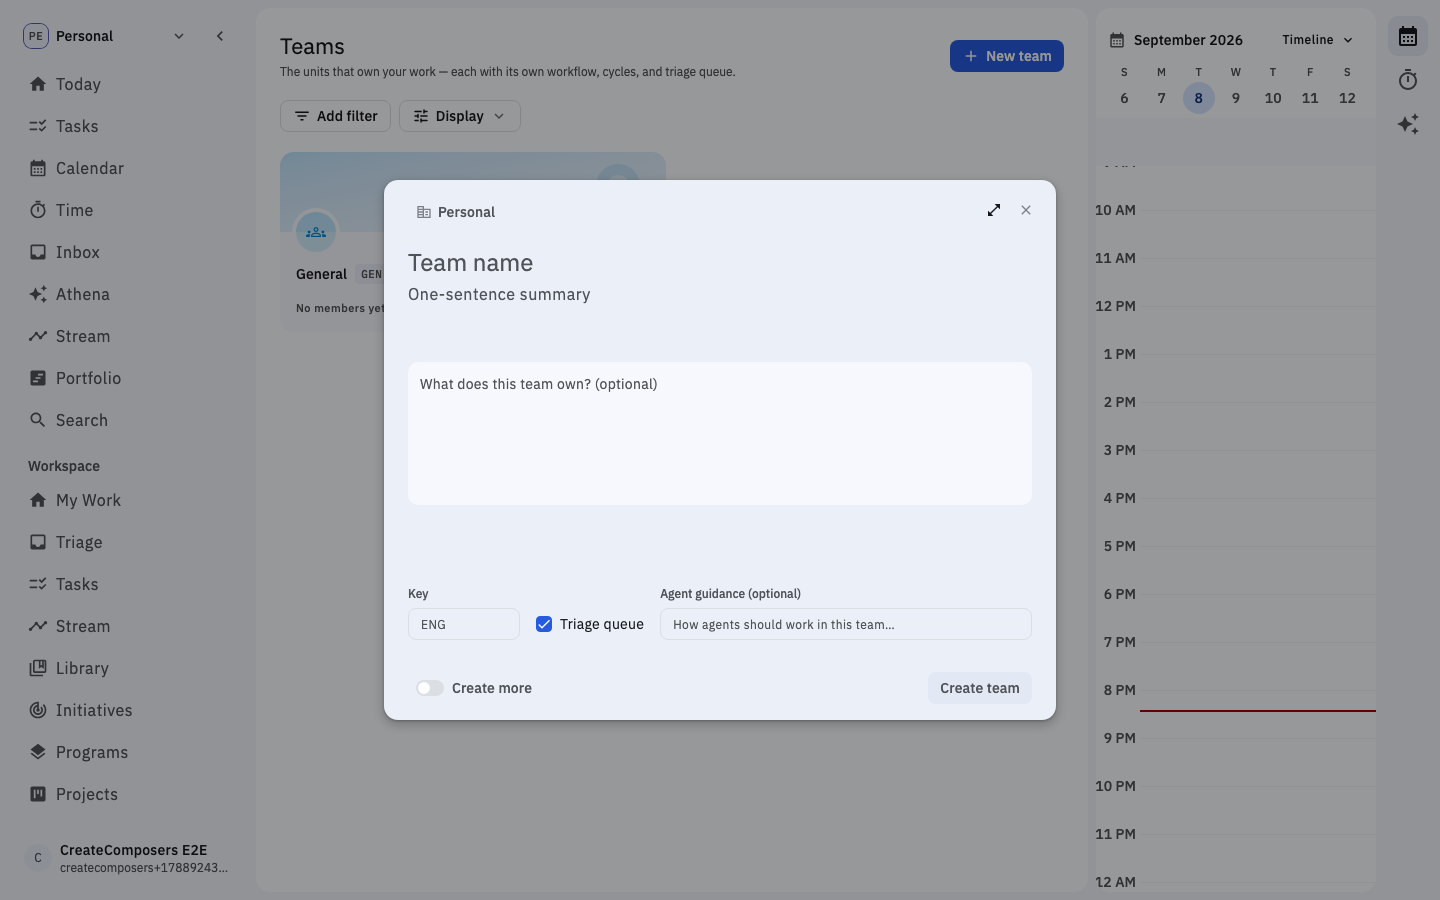
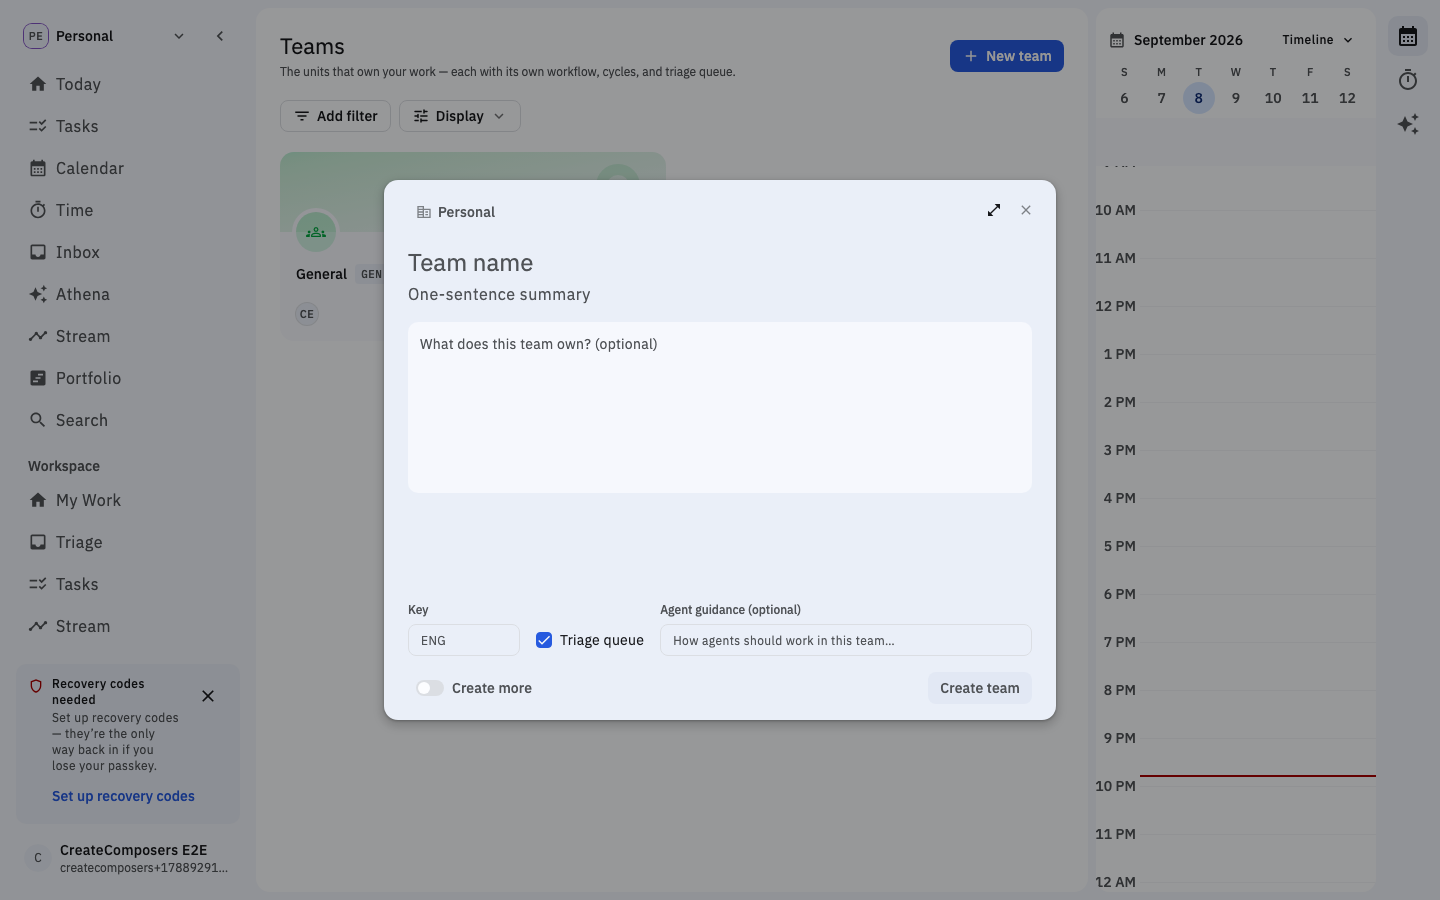
fix(ui): Remove excess composer title spacing
Create composers stacked four independent 12px spacing rules between the
title block and editor. The result was a 48px empty band that made the
form look disconnected, especially in the full-screen phone layout.

The shared dialog body now has a typed responsive-inline inset for
adjacent regions. It preserves safe-area-aware side padding without
adding another block gap. The composer also drops its legacy title and
editor margins, which leaves the responsive header as the single owner
of the title-to-editor spacing.

Browser coverage now rejects a rendered gap above 16px across every
product composer.

Docs-impact: Updated - recorded the spacing fix and refreshed the design audit

diff --git a/packages/ui/src/primitives/dialog.tsx b/packages/ui/src/primitives/dialog.tsx
@@ -69,6 +69,9 @@ import { useOverlayFocusRestore } from './use-overlay-focus-restore';
 /** Insets for dialog regions, including compact phone spacing that expands with the panel. */
 export type DialogInset = OverlayInset | 'responsive';
 
+/** Insets for dialog bodies, including inline-only spacing beside an adjacent header. */
+export type DialogBodyInset = DialogInset | 'responsive-inline';
+
 /**
  * Root controller for an open/closed dialog (Radix passthrough).
  *
@@ -320,7 +323,7 @@ export function DialogBody({
   scroll = 'auto',
   ...props
 }: React.ComponentProps<'div'> & {
-  readonly inset?: DialogInset | undefined;
+  readonly inset?: DialogBodyInset | undefined;
   readonly scroll?: 'auto' | 'visible' | undefined;
 }): React.JSX.Element {
   return (
@@ -363,12 +366,13 @@ export function DialogFooter({
 
 type DialogRegion = 'header' | 'body' | 'footer';
 
-function overlayInsetClass(inset: DialogInset, region: DialogRegion): string {
+function overlayInsetClass(inset: DialogBodyInset, region: DialogRegion): string {
   if (inset === 'none') return '';
   if (inset === 'compact') return 'px-4 py-3';
-  if (inset === 'responsive') {
+  if (inset === 'responsive' || inset === 'responsive-inline') {
     const horizontal =
       'pl-[max(1rem,env(safe-area-inset-left))] pr-[max(1rem,env(safe-area-inset-right))] sm:px-6';
+    if (inset === 'responsive-inline') return horizontal;
     if (region === 'header')
       return `${horizontal} pt-[max(0.75rem,env(safe-area-inset-top))] pb-3 sm:py-4`;
     if (region === 'footer')

diff --git a/apps/web/e2e/athena/create-composers-design.spec.ts b/apps/web/e2e/athena/create-composers-design.spec.ts
@@ -117,6 +117,17 @@ async function expectNoPageOverflow(page: Page): Promise<void> {
   expect(geometry.scrollWidth).toBeLessThanOrEqual(geometry.clientWidth);
 }
 
+async function expectSingleTitleToEditorGap(dialog: Locator): Promise<void> {
+  const editor = dialog.locator('[data-editor-surface]');
+  if ((await editor.count()) === 0) return;
+  const titleBlock = dialog.getByRole('textbox').first().locator('..');
+  const [titleBox, editorBox] = await Promise.all([titleBlock.boundingBox(), editor.boundingBox()]);
+  expect(titleBox).not.toBeNull();
+  expect(editorBox).not.toBeNull();
+  if (!titleBox || !editorBox) throw new Error('Composer title or editor has no layout box.');
+  expect(editorBox.y - (titleBox.y + titleBox.height)).toBeLessThanOrEqual(16);
+}
+
 async function expectMobileViewportComposer(dialog: Locator, page: Page): Promise<void> {
   await dialog.evaluate(async (node) => {
     await Promise.allSettled(
@@ -199,6 +210,7 @@ test('create composers fill phones and keep two explicit footer rows', async ({ 
     await page.setViewportSize({ width: 390, height: 844 });
     await setColorScheme(page, 'light');
     await expectMobileViewportComposer(dialog, page);
+    await expectSingleTitleToEditorGap(dialog);
     await expectTwoFooterRows(dialog, item);
     await expectNoPageOverflow(page);
     await capture(page, `${item.slug}-mobile-light`);

diff --git a/apps/web/tests/editor/composer-editor-parity.test.tsx b/apps/web/tests/editor/composer-editor-parity.test.tsx
@@ -101,6 +101,8 @@ describe('composer body editor parity', () => {
     const dialog = await screen.findByRole('dialog', { name: 'New initiative' });
     const title = screen.getByRole('textbox', { name: 'Initiative name' });
     const summary = screen.getByRole('textbox', { name: 'One-sentence summary' });
+    const editor = screen.getByRole('textbox', { name: 'Add a description' });
+    const dialogBody = editor.closest('[data-overlay-scroll-owner]');
     const create = screen.getByRole('button', { name: 'Create Initiative' });
     const actionRow = create.parentElement;
     const footer = actionRow?.parentElement;
@@ -117,6 +119,14 @@ describe('composer body editor parity', () => {
     expect(title).toHaveClass('text-headline-small');
     expect(title).not.toHaveClass('text-lg', 'font-medium', 'tracking-tight');
     expect(summary).toHaveClass('text-body-large');
+    expect(title.parentElement).not.toHaveClass('pb-3');
+    expect(editor.closest('[data-editor-surface]')).not.toHaveClass('mt-3');
+    expect(dialogBody).toHaveClass(
+      'pl-[max(1rem,env(safe-area-inset-left))]',
+      'pr-[max(1rem,env(safe-area-inset-right))]',
+      'sm:px-6',
+    );
+    expect(dialogBody).not.toHaveClass('py-3', 'sm:py-4');
     expect(actionRow).toHaveClass('w-full');
     expect(footer).toHaveClass(
       'pl-[max(1rem,env(safe-area-inset-left))]',

diff --git a/apps/web/src/components/composer/composer-shell.tsx b/apps/web/src/components/composer/composer-shell.tsx
@@ -236,7 +236,7 @@ export function ComposerShell({
         onSubmit={() => {
           if (canSubmit && !creating) onSubmit();
         }}
-        className="bg-surface-container-low mt-3 flex min-h-28 flex-1 flex-col overflow-y-auto overscroll-contain rounded-lg p-3 [&>div]:flex-1"
+        className="bg-surface-container-low flex min-h-28 flex-1 flex-col overflow-y-auto overscroll-contain rounded-lg p-3 [&>div]:flex-1"
       />
     );
 
@@ -377,7 +377,7 @@ export function ComposerShell({
               ) : null}
 
               {/* Header block: the title, and — when opted in — an inline subtitle, read as one document. */}
-              <div className="flex flex-col gap-1 pb-3">
+              <div className="flex flex-col gap-1">
                 <input
                   aria-label={titlePlaceholder}
                   placeholder={titlePlaceholder}
@@ -407,7 +407,7 @@ export function ComposerShell({
             </div>
           </DialogHeader>
 
-          <DialogBody inset="responsive" className="flex flex-col gap-4">
+          <DialogBody inset="responsive-inline" className="flex flex-col gap-4">
             {bodyEditor !== null ? (
               <>
                 {/*

diff --git a/packages/ui/tests/primitives/dialog.test.tsx b/packages/ui/tests/primitives/dialog.test.tsx
@@ -299,6 +299,26 @@ describe('Dialog family', () => {
     expect(footer).toHaveClass('pt-3', 'pb-[max(0.75rem,env(safe-area-inset-bottom))]');
   });
 
+  it('keeps adjacent responsive bodies inline with the panel without adding a second block gap', async () => {
+    render(
+      <Dialog defaultOpen>
+        <DialogContent>
+          <DialogTitle>Joined regions</DialogTitle>
+          <DialogBody inset="responsive-inline" data-testid="responsive-inline-body">
+            Body
+          </DialogBody>
+        </DialogContent>
+      </Dialog>,
+    );
+
+    expect(await screen.findByTestId('responsive-inline-body')).toHaveClass(
+      'pl-[max(1rem,env(safe-area-inset-left))]',
+      'pr-[max(1rem,env(safe-area-inset-right))]',
+      'sm:px-6',
+    );
+    expect(screen.getByTestId('responsive-inline-body')).not.toHaveClass('py-3', 'sm:py-4');
+  });
+
   it('reserves the second header control only when a responsive dialog becomes a panel', async () => {
     render(
       <Dialog defaultOpen>

diff --git a/packages/ui/src/primitives/index.ts b/packages/ui/src/primitives/index.ts
@@ -79,6 +79,7 @@ export {
   DialogContent,
   type DialogContentProps,
   DialogDescription,
+  type DialogBodyInset,
   DialogFooter,
   DialogHeader,
   type DialogInset,

diff --git a/docs/WORKLOG.md b/docs/WORKLOG.md
@@ -9401,6 +9401,135 @@ identity-providers}.ts(x)` + `packages/ui/src/icons/index.ts` (badge, Source opt
 
 ## Completed Tasks
 
+### [CREATE-COMPOSERS-003] Remove the stacked title-to-editor gap
+
+- **Completed**: 2026-09-08
+- **Started**: 2026-09-08
+- **Priority**: P1
+- **Summary**: Every create composer now uses one title-to-editor spacing step instead of stacking
+  four 12px margins and insets into a 48px gap.
+- **Approach**: Add the shared `responsive-inline` dialog inset for an adjacent scrolling body.
+  Keep safe-area-aware inline padding in `@docket/ui`, remove block padding from that body variant,
+  and remove the legacy title and editor margins. The responsive header now owns the only vertical
+  gap at this boundary.
+- **Validation**: The red shared-dialog test received the old `px-6 py-4` body inset. The red
+  composer test found the legacy `pb-3` title padding and `mt-3` editor margin. The focused green
+  suites passed 23 shared-dialog assertions and 22 composer/editor assertions. The full shared-UI
+  coverage suite passed 773 tests at 94.89% statement coverage. The full web coverage suite passed
+  3,850 tests at 95.98% statement coverage. The authenticated browser matrix passed 2 tests in 1.4
+  minutes across all five product composers. It enforced a title-to-editor gap of no more than 16px
+  and refreshed 30 screenshots at desktop, 390px, 320px, light, dark, fine-pointer, and touch
+  modes. UI and web typecheck and lint passed, and the production web build generated 91 pages and
+  its service worker.
+- **Learnings**: The visible 48px gap came from four independent 12px sources: title bottom
+  padding, responsive header bottom padding, responsive body top padding, and editor top margin.
+  Removing one margin would have left the same ownership bug in place. A shared inline-only body
+  inset preserves safe areas without adding a second vertical rhythm.
+- **Blockers**: None. Ports 1355 through 1358 belonged to a sibling worktree, so the final browser
+  run used the existing `DOCKET_DEV_PORT` override at ports 1455 through 1458. A first alternate-port
+  run lost its child processes when the startup shell ended and did not count as evidence.
+
+---
+
+### [CREATE-COMPOSERS-002] Give create composers a mobile-native surface
+
+- **Completed**: 2026-09-08
+- **Started**: 2026-09-08
+- **Priority**: P1
+- **Summary**: Phone-sized create composers now fill `100dvh` instead of reusing the centered
+  `60dvh` desktop panel. Desktop composers retain their 42rem compact width, 64rem expanded width,
+  and existing height rules.
+- **Approach**: Use the shared `responsive-fullscreen` dialog presentation and add typed
+  `responsive` inset and `responsive-two` header-control contracts to `@docket/ui`. Every composer
+  now gets phone insets that respect device safe areas and 24px panel insets from the same
+  primitive. The shared shell hides the redundant expand action below the `sm` breakpoint because
+  the phone surface already fills the viewport.
+- **Files changed**: The shared dialog regions now expose responsive inset and header-control
+  options. The shared composer applies those options to every product composer. Its editor fills
+  the space between the header and the pinned two-row footer. The browser evidence helper retries
+  navigation after a documented cold-route service-worker fallback and tolerates cancelled
+  viewport animations while it waits for the final frame.
+- **Validation**: The red tests failed on the missing shared responsive contracts and the old
+  centered composer presentation. The focused green runs passed 22 shared-dialog assertions and
+  22 editor and composer assertions. The final rebased browser matrix passed two tests in 36.5
+  seconds across all five product composers. It checked the close target while the phone layout hid
+  the expand target and captured 30 screenshots at 320px, 390px, and desktop widths in light, dark,
+  fine-pointer, and touch modes. The shared-UI coverage suite passed 772 tests at 94.89% statement
+  coverage. The web coverage suite passed 3,850 tests at 95.98% statement coverage. The full
+  typecheck graph passed 26 tasks. After review, the affected typecheck and lint graphs each passed
+  3 tasks, and the production build passed its API and web tasks. The repository format check and
+  whitespace check passed. A direct build invocation did not load `API_URL` and failed before
+  compilation. The documented dotenv-backed production build then passed, so that environment
+  invocation does not count as product evidence. A combined post-rebase check exhausted the
+  default 2 GB Node heap while web typecheck competed with lint and API generation. The isolated
+  web typecheck passed with a 4 GB heap, and the sequential lint and production build passed. A
+  post-fix review found no remaining Critical or Important issues.
+- **Learnings**: A percentage-height centered desktop dialog is the wrong phone composition. The
+  existing full-screen presentation works when the dialog primitive also owns responsive region
+  spacing and control gutters. The dev stack must stay attached to the shell that runs the browser
+  test. Cold development routes need navigation retry, and viewport changes can cancel active
+  animations without indicating a failed final frame. The keep-ours merge driver drops work-log
+  additions during a rebase, so the final tree needs an explicit work-log check.
+- **Blockers**: None. The resource watchdog helper documented in the repository is not installed at
+  `~/.claude/resource-limits/agentctl`. Turbo and Vitest commands used at most two workers. The Next
+  production build internally used seven page-data workers.
+
+---
+
+### [CREATE-COMPOSERS-001] Make create composers scan as two clear rows
+
+- **Completed**: 2026-09-08
+- **Started**: 2026-09-08
+- **Priority**: P1
+- **Description**: The six create composers used a dialog that was wider than the editor, weakened
+  the title hierarchy, and let the metadata and action controls collapse into one crowded footer
+  row. The shared composer had to keep its current height while the compact dialog hugged the
+  editor, the expanded dialog gained useful width, and the footer remained two stable rows at every
+  width.
+- **Approach**: Change the shared composer shell and existing picker extension points instead of
+  building entity-specific layouts. Preserve the workspace and owner breadcrumb. Normalize empty
+  property copy, align the dialog controls with the shared small control geometry, and keep the
+  primary fill off disabled submit buttons. Integrate the separately completed empty-description
+  prompt work after the composer slice passes focused tests.
+- **Subtasks**:
+  - [x] Add behavior and geometry coverage for the shared dialog, footer, and empty labels.
+  - [x] Implement the compact and expanded widths, type hierarchy, two-row footer, and controls.
+  - [x] Integrate the completed template-prompt commits without folding their history into this fix.
+  - [x] Capture every product-reachable composer at desktop and mobile widths in both themes.
+  - [x] Run focused and repository validation and record the design audit.
+- **Files changed**: The shared shell now uses a 42rem compact width and a 64rem expanded width
+  without changing its height. It gives metadata and actions separate footer rows, keeps the
+  breadcrumb, uses the shared small-control geometry for close and expand controls, and contains
+  editor overscroll. Coarse pointers keep a 4px gap between 40px header targets, and the metadata
+  fitter reserves the real overflow target width. Task recurrence now participates in measured
+  metadata overflow instead of clipping beside the ellipsis. Nullable property controls now use
+  `No ...` copy. The description template action begins below the empty prompt. Shared date and
+  estimate pickers accept caller-owned empty labels.
+- **Validation**: The rebased production release harness applied fresh disposable PostgreSQL
+  migrations and built the API and web app. It passed four composer browser tests, including fine
+  and touch pointer design matrices, the empty prompt case, and the evidence-only composer check.
+  The browser matrix captured 30 create-composer screenshots at 1440x900 and 390x844 in both
+  themes, plus a 320x844 overflow probe and a touch-emulated 390x844 pass for all five reachable
+  composers. The empty-prompt check captured three more screenshots. Focused shared-UI tests passed
+  97 assertions, and the post-review Task, Cycle, metadata, and shell regressions passed 52
+  assertions. The full shared-UI coverage suite passed 769 tests at 94.88% statement coverage. The
+  exact rebased full web coverage suite passed 3,850 tests at 95.98% statement coverage. The full
+  database coverage package passed 247 tests at 95.36% statement coverage. The complete repository
+  coverage graph reached 23 successful tasks before one unrelated database migration test exceeded
+  its 30-second timeout under API contention. The same two migration assertions passed alone in
+  3.29 seconds. A final review found no remaining Critical or Important issues.
+- **Learnings**: The editor surface must own both `overflow-y-auto` and `overscroll-contain`.
+  Giving overflow only to the surrounding dialog body still lets wheel input escape at the editor
+  boundary. Source-reading tests must follow shared control geometry instead of requiring an old
+  utility string. Cycle creation has no product entry point, so its current evidence remains at the
+  shared-shell component boundary instead of a fake browser route. A narrow viewport does not
+  activate coarse-pointer CSS in Playwright. Touch-target audits must set `hasTouch: true` and
+  measure the rendered hit boxes.
+- **Blockers**: None. The resource watchdog helper documented in the repository is not installed at
+  `~/.claude/resource-limits/agentctl`, so every validation command used at most two workers.
+
+---
+
 ### [TYPE-SCALE-001] Close the gaps between the design system and its enforcement
 
 - **Completed**: 2026-09-08

diff --git a/docs/design/audits/2026-09-08-create-composers.md b/docs/design/audits/2026-09-08-create-composers.md
@@ -37,7 +37,7 @@ overflow probe.
 | ------------------------- | ----- | ----------------------------------------------------------------------------------------------------------------------------------------------------------------------------------------------------------------------------------------------------------------------------------------------------------------------------------------------------------------------------------------------------------------------------------------------------------------------------------------- |
 | 1. Brand identity & voice | 3     | The dialogs use the calm Plex and neutral MD3 app register. The workspace and owner breadcrumb preserves Docket's work hierarchy. Empty property labels now say `No owner`, `No target`, and `No health` instead of mixing commands with state.                                                                                                                                                                                                                                           |
 | 2. Typographic craft      | 3     | The title uses `text-headline-small`, the summary uses `text-body-large`, and controls retain the label tokens from the shared control scale. The desktop and mobile captures show the title, summary, editor prompt, properties, and actions as five distinct levels without an arbitrary type size.                                                                                                                                                                                     |
-| 3. Spatial rhythm         | 3     | At 390×844 and 320×844, the shell fills the dynamic viewport and gives the editor the remaining height between its fixed header and footer. Dialog regions use the shared responsive inset contract: 16px inline and 12px block minimums on phones, expanded by the device safe area, then 24px inline and 16px block insets on desktop. The centered desktop shell retains its 42rem compact and 64rem expanded measures plus its 60dvh/36rem and 80dvh/48rem height rules.              |
+| 3. Spatial rhythm         | 3     | At 390×844 and 320×844, the shell fills the dynamic viewport and gives the editor the remaining height between its fixed header and footer. The title-to-editor boundary uses one 12px phone step instead of four stacked steps. The body uses the shared responsive inline inset, which preserves safe-area sides without adding block padding. The centered desktop shell retains its 42rem compact and 64rem expanded measures plus its 60dvh/36rem and 80dvh/48rem height rules.      |
 | 4. Hierarchy              | 3     | The five-second path is title, optional summary, description, properties, then create. Metadata has its own first footer row. `Create more` and the primary submit occupy the second row. The primary submit stays at the right edge, and its disabled state no longer uses the active primary fill.                                                                                                                                                                                      |
 | 5. Color discipline       | 3     | Every visible color comes from semantic surface, text, state, and primary tokens. Light and dark captures preserve the same tonal order: dialog, inset editor, property chips, then action chrome. No component adds a hardcoded color.                                                                                                                                                                                                                                                   |
 | 6. Motion & feedback      | 3     | The Radix dialog retains its shared open, close, focus, and reduced-motion behavior. Desktop expand and collapse use separate Maximize and Minimize glyphs and keep the same editor node mounted. Phones hide that redundant control because their composer is already full-screen. The browser check confirms that editor scrolling does not move the title or footer.                                                                                                                   |
@@ -70,6 +70,10 @@ date` copy pass component tests, but no person can open that composer through th
    composer now uses the shared responsive-fullscreen dialog presentation, fills `100dvh` below the
    `sm` breakpoint, and keeps the approved centered sizes above it. The refreshed light, dark, touch,
    and 320px captures verify that the editor receives the recovered height.
+6. **The title-to-editor boundary stacked four independent spacing rules.** The title block,
+   responsive header, responsive body, and editor each contributed 12px, which produced the visible
+   48px gap. The body now uses the shared inline-only responsive inset, and the old title and editor
+   margins are gone. The browser matrix rejects a rendered boundary gap above 16px.
 
 Verdict: **SHIP** — every dimension meets the score of 3, and all five hard gates pass for every
 create composer with a product entry point.
